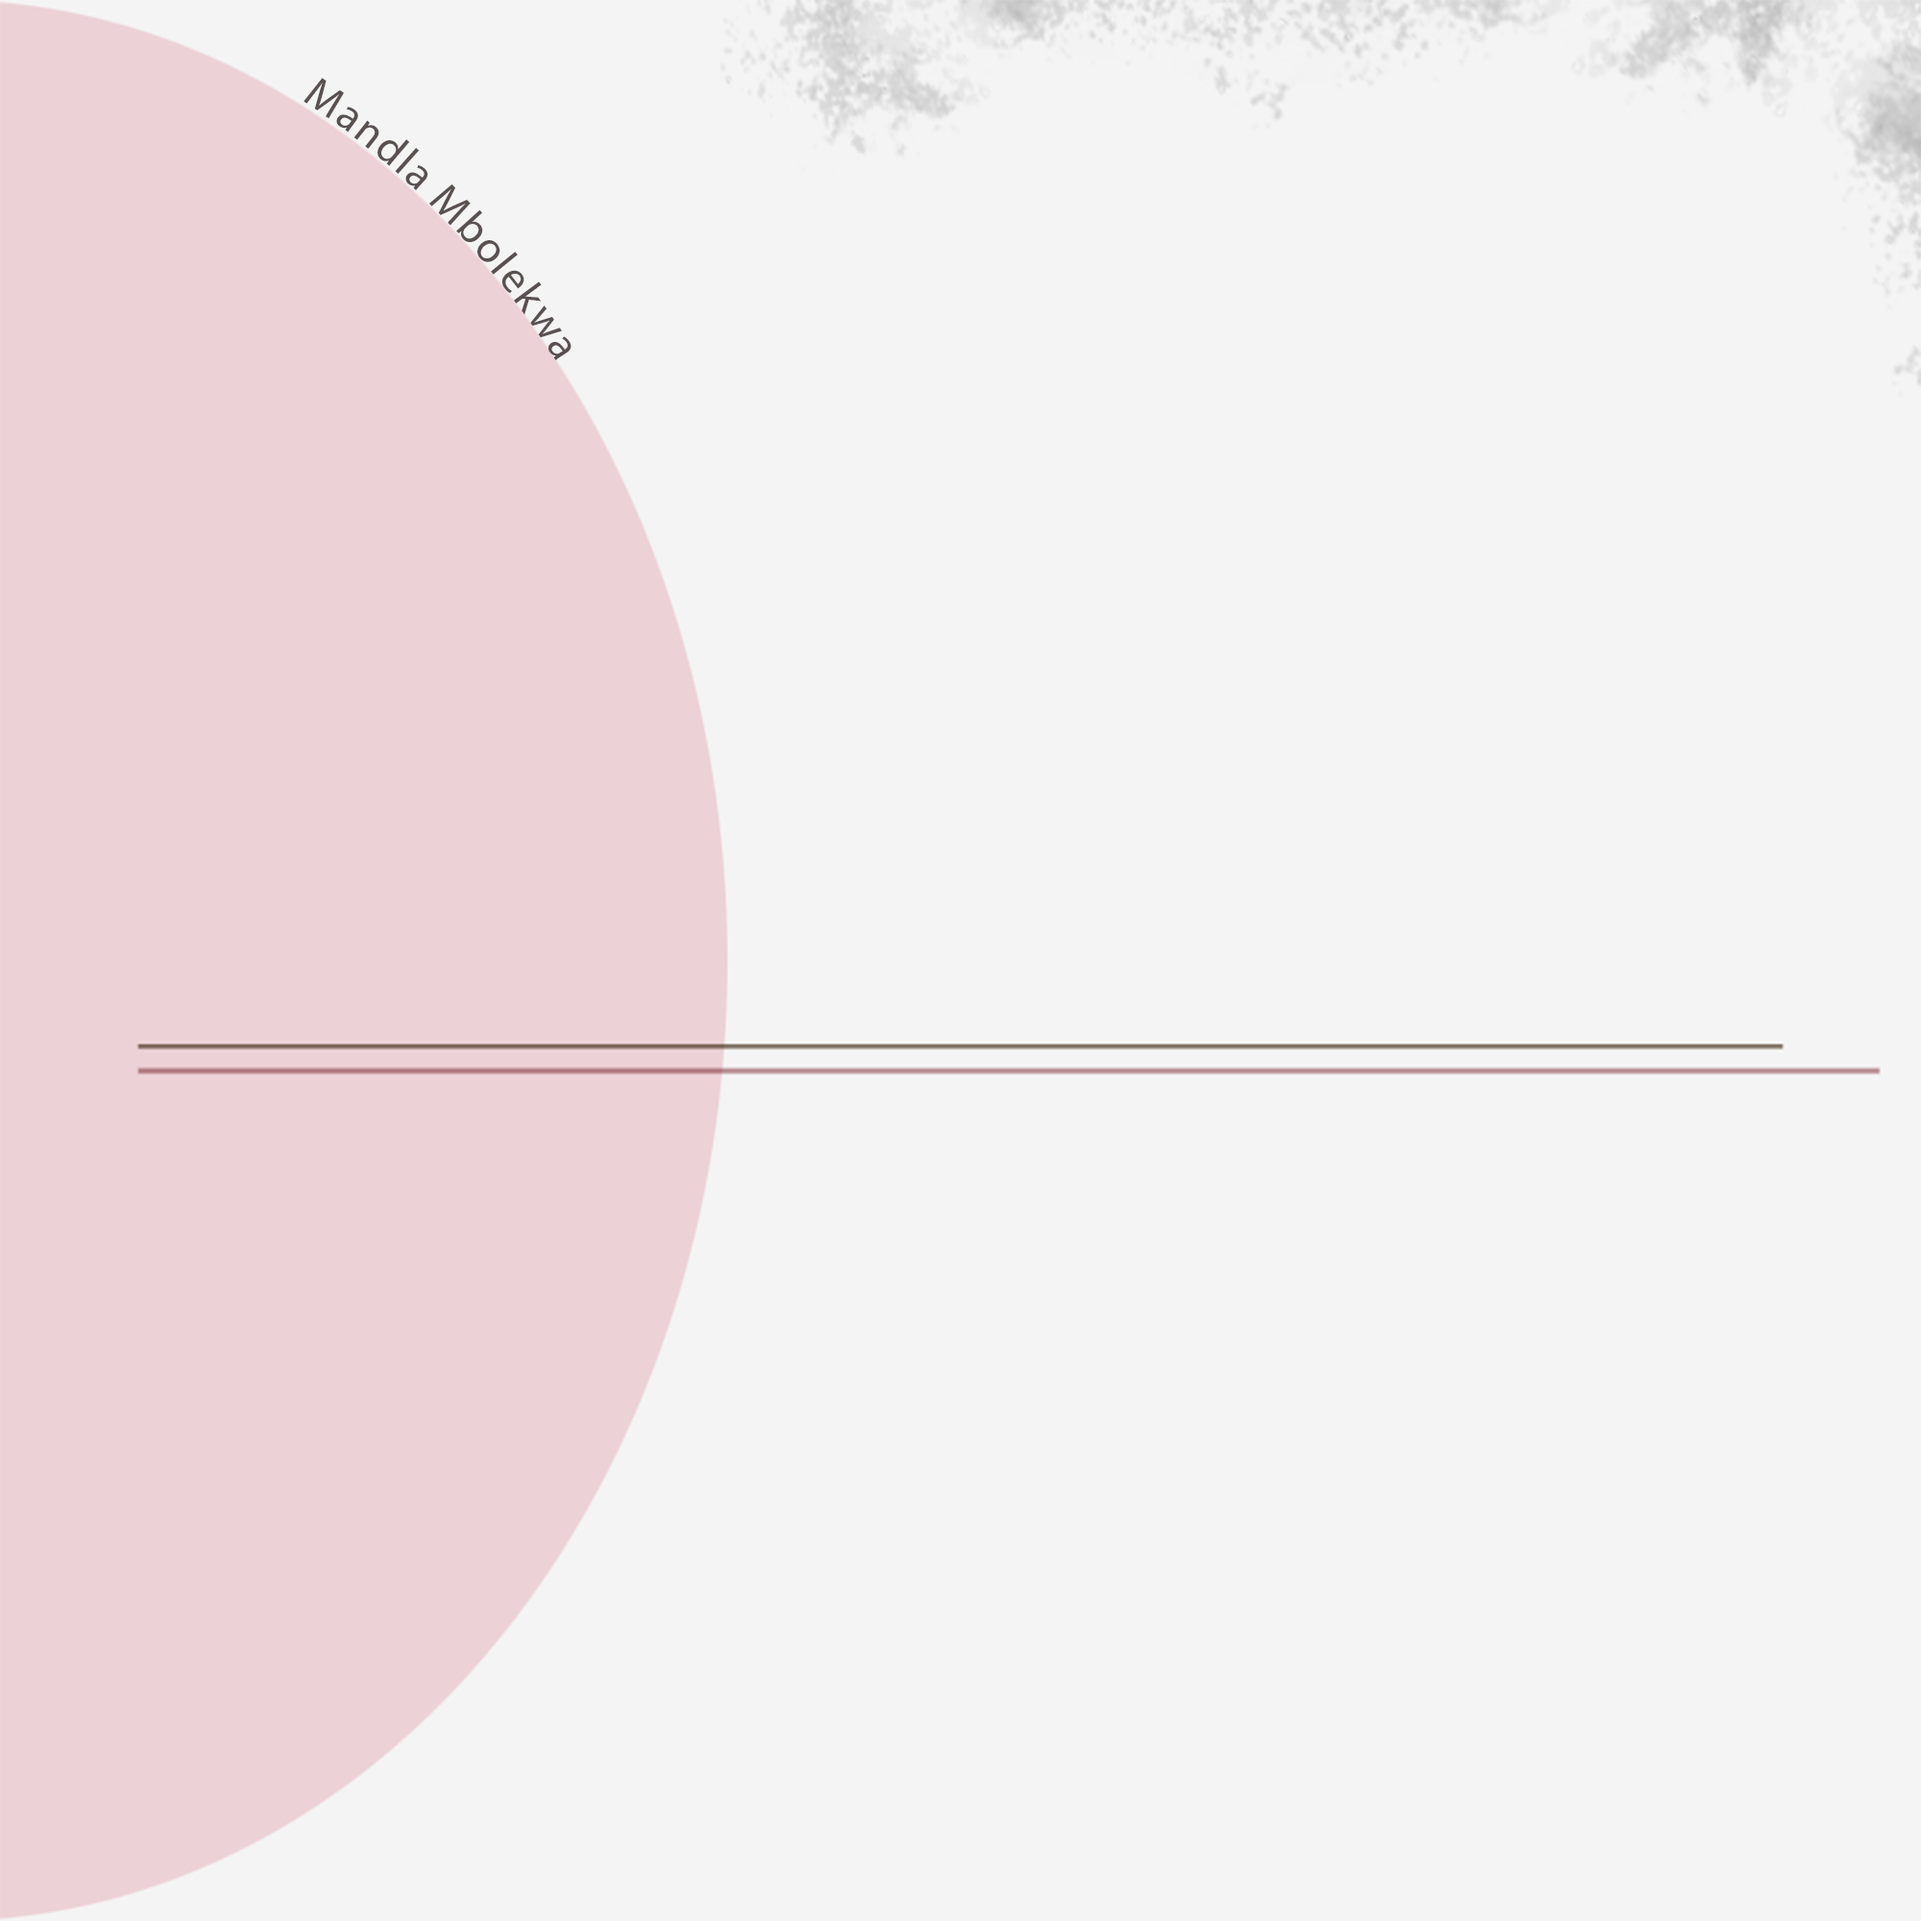
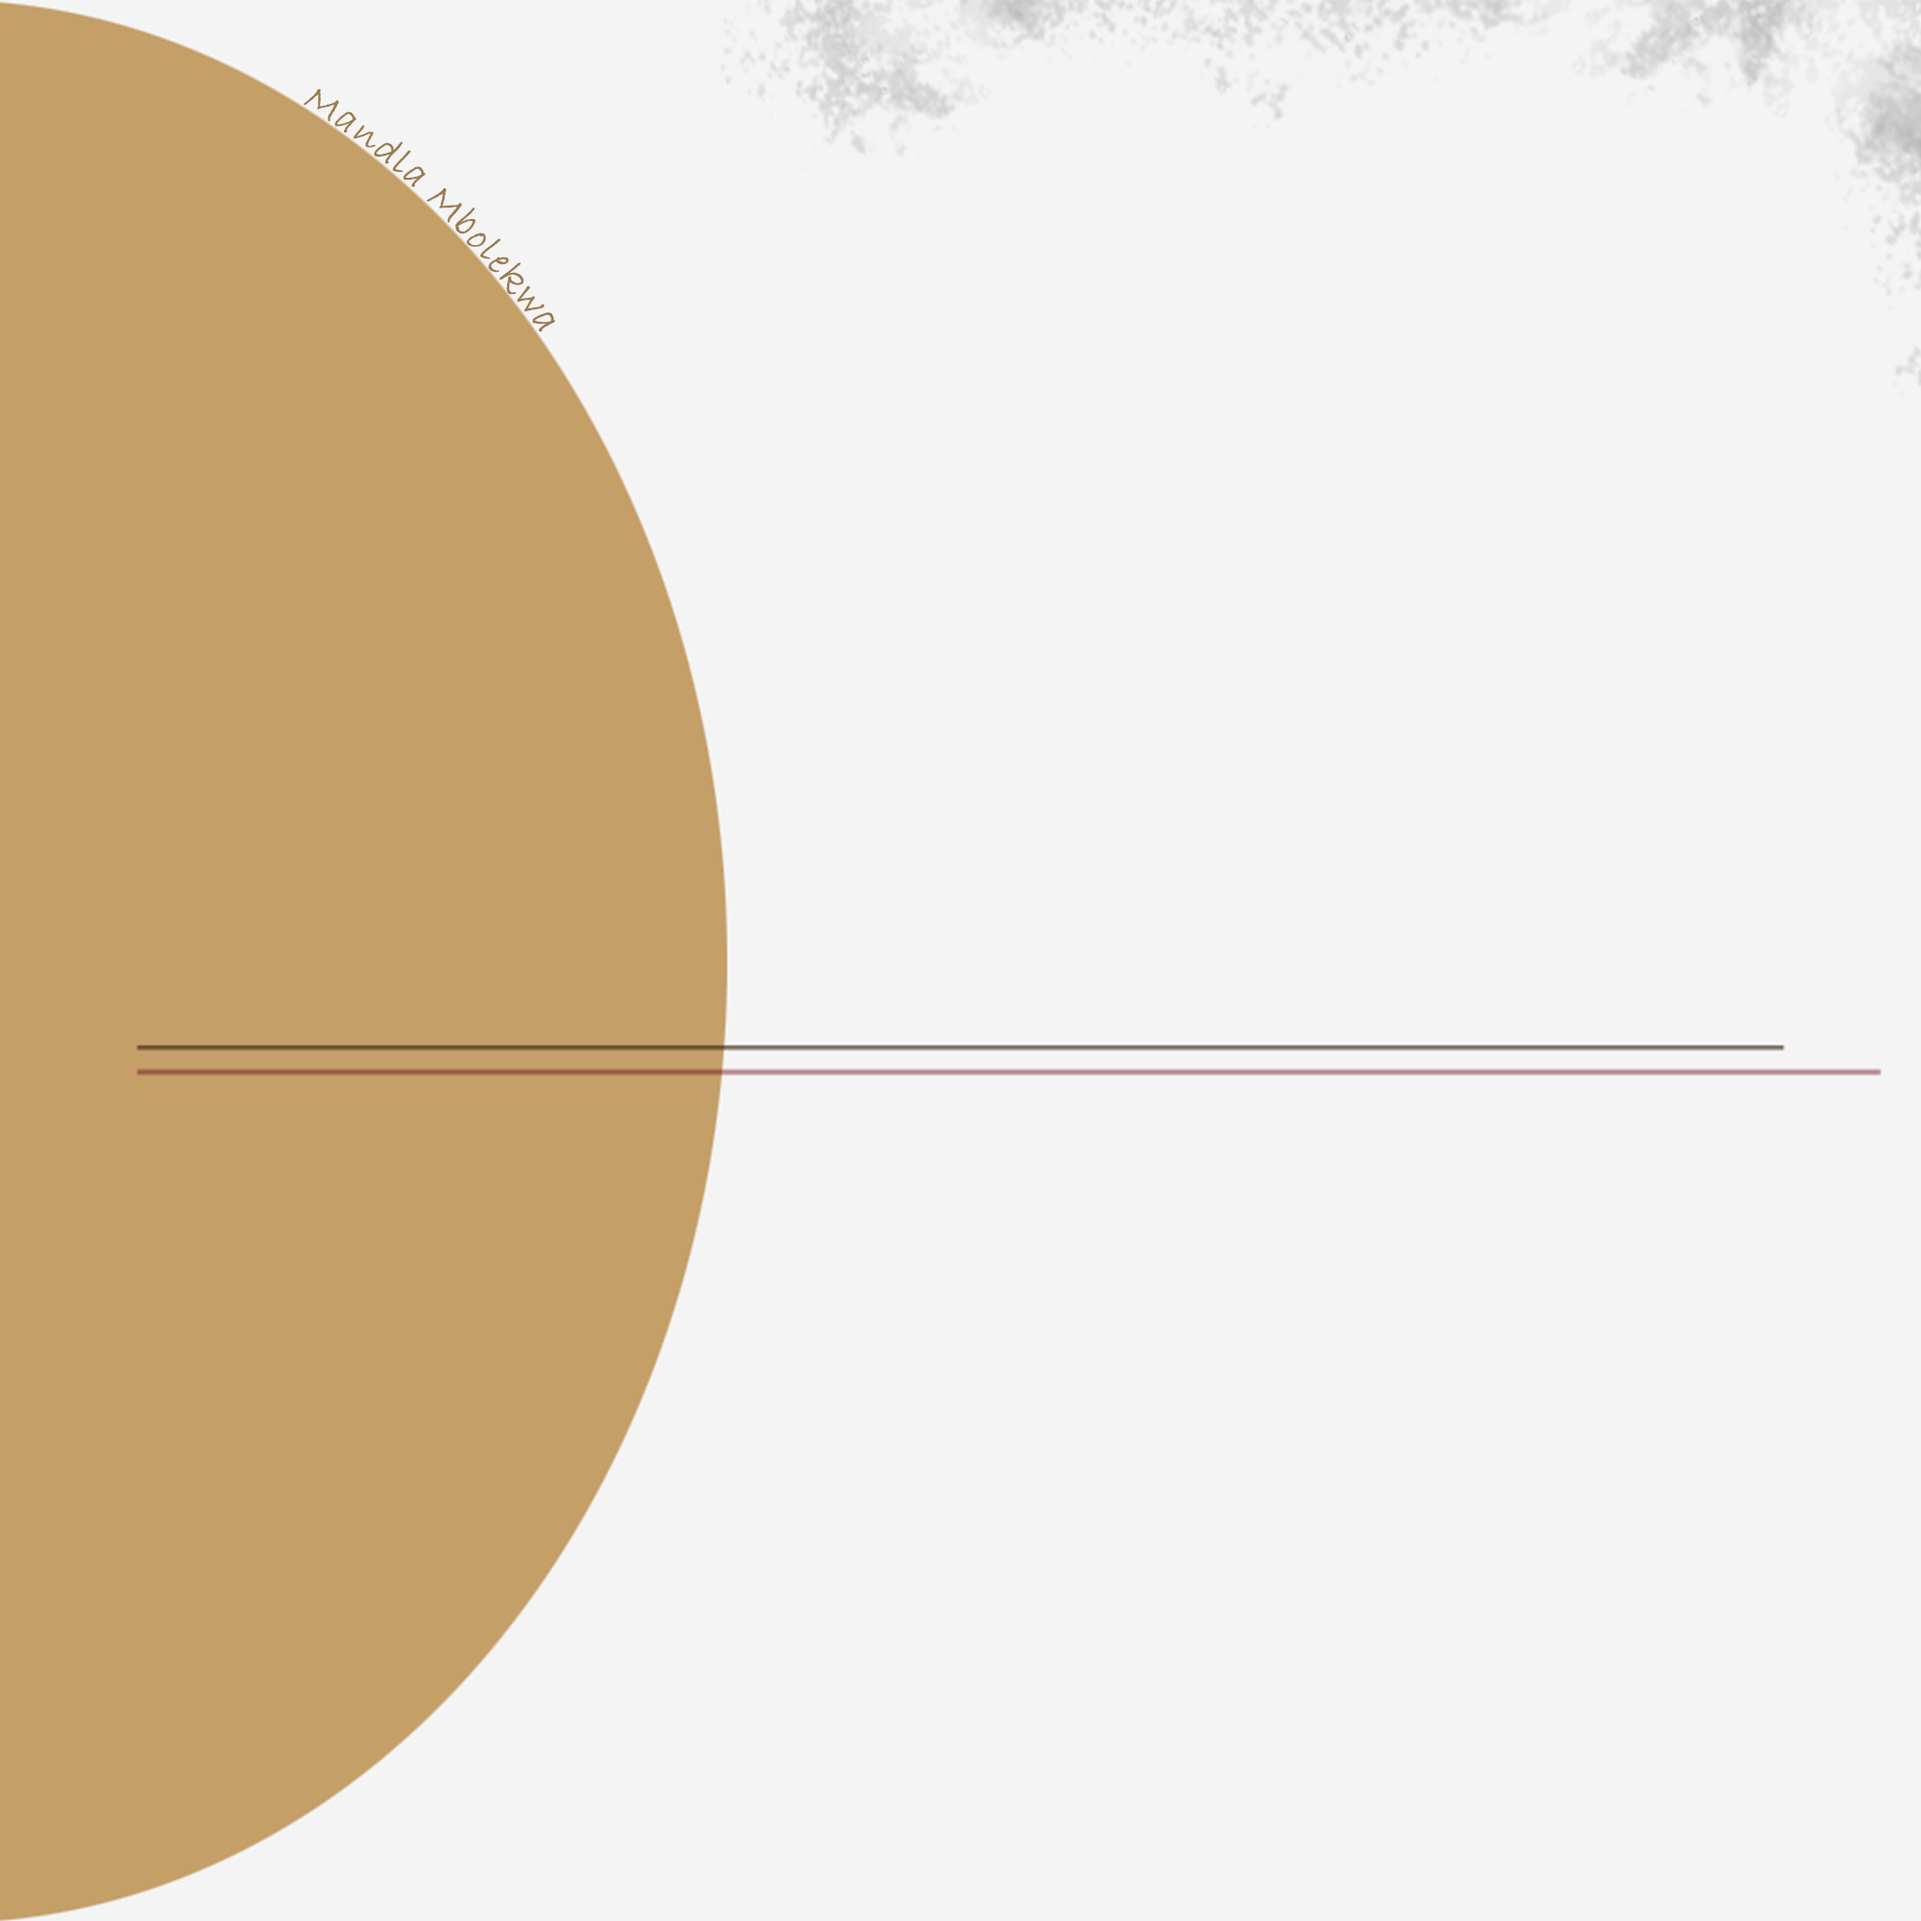
Design

Changed region(s): [[0.0, 0.0, 0.93, 1.0]]

diff --git a/src/componets/Navbar/Navbar.js b/src/componets/Navbar/Navbar.js
@@ -24,53 +24,56 @@ export default function Navbar({ isOpen }) {
 
   return (
     <>
-      <div className="fixed flex-col w-1/5 float-left h-full items-center justify-center hidden md:flex">
+      <div className="fixed -mt-5 flex-col items-center justify-center hidden md:flex">
         <div
-          className={`relative bg-[#4e4c48] w-1/2 h-[12%]  lg:h-1/6 mt-10 rounded-md cursor-pointer shadow-[1px_1px_4px_1px_#101319] text-gray-400 ${
+          className={`flex items-center justify-center bg-[#4e4c48] mt-10 rounded-full cursor-pointer shadow-[1px_1px_4px_1px_#101319] text-gray-400 p-5 ${
             state.home ? "linkHover" : ""
           }`}
           onMouseEnter={() => dispatch({ type: "hover", id: "home" })}
           onMouseLeave={() => dispatch({ type: "unhover", id: "home" })}
         >
-          <Link to="/" className="w-full h-full grid justify-center">
-            <p className="relative top-[15%]">Home</p>
-            <LinkBtn state={state.home}/>
+          <Link
+            to="/"
+            className="relative w-full h-full rounded-full flex flex-col items-center justify-center"
+          >
+            <p className="text-[9px] absolute -top-1 -left-2">Home</p>
+            <LinkBtn state={state.home} />
           </Link>
         </div>
         <div
-          className={`relative bg-[#4e4c48] w-1/2 h-[12%]  lg:h-1/6 mt-10 rounded-md cursor-pointer shadow-[1px_1px_4px_1px_#101319] text-gray-400 ${
+          className={`flex items-center justify-center bg-[#4e4c48] mt-10 rounded-full cursor-pointer shadow-[1px_1px_4px_1px_#101319] text-gray-400 p-5 ${
             state.about ? "linkHover" : ""
           }`}
           onMouseEnter={() => dispatch({ type: "hover", id: "about" })}
           onMouseLeave={() => dispatch({ type: "unhover", id: "about" })}
         >
-          <Link to="/about" className="w-full h-full grid justify-center">
-            <p className="relative top-[15%]">About</p>
-            <LinkBtn state={state.about}/>
+          <Link to="/about" className="relative">
+            <p className="text-[9px] absolute -top-1 -left-2">About</p>
+            <LinkBtn state={state.about} />
           </Link>
         </div>
         <div
-          className={`relative bg-[#4e4c48] w-1/2 h-[12%]  lg:h-1/6 mt-10 rounded-md cursor-pointer shadow-[1px_1px_4px_1px_#101319] text-gray-400 ${
+          className={`flex items-center justify-center bg-[#4e4c48] mt-10 rounded-full cursor-pointer shadow-[1px_1px_4px_1px_#101319] text-gray-400 p-5 ${
             state.work ? "linkHover" : ""
           }`}
           onMouseEnter={() => dispatch({ type: "hover", id: "work" })}
           onMouseLeave={() => dispatch({ type: "unhover", id: "work" })}
         >
-          <Link to="/work" className="w-full h-full grid justify-center">
-            <p className="relative top-[15%]">Work</p>
-            <LinkBtn state={state.work}/>
+          <Link to="/work" className="relative">
+            <p className="text-[9px] absolute -top-1 -left-1">Work</p>
+            <LinkBtn state={state.work} />
           </Link>
         </div>
         <div
-          className={`relative bg-[#4e4c48] w-1/2 h-[12%]  lg:h-1/6 mt-10 rounded-md cursor-pointer shadow-[1px_1px_4px_1px_#101319] text-gray-400 ${
+          className={`flex items-center justify-center bg-[#4e4c48] mt-10 rounded-full cursor-pointer shadow-[1px_1px_4px_1px_#101319] text-gray-400 p-5 ${
             state.contact ? "linkHover" : ""
           }`}
           onMouseEnter={() => dispatch({ type: "hover", id: "contact" })}
           onMouseLeave={() => dispatch({ type: "unhover", id: "contact" })}
         >
-          <Link to="/contact" className="w-full h-full grid justify-center">
-            <p className="relative top-[10%]">Contact</p>
-            <LinkBtn state={state.contact}/>
+          <Link to="/contact" className="relative">
+            <p className="text-[9px] absolute -top-1 -left-4">Contact</p>
+            <LinkBtn state={state.contact} />
           </Link>
         </div>
       </div>

diff --git a/src/componets/Home/Home.js b/src/componets/Home/Home.js
@@ -55,10 +55,10 @@ export default function Home() {
           className="hidden md:grid text-[12px] lg:text-[14px] text-gray-600 order-last md:order-first"
         >
           <div className="relative flex items-end pl-10">
-            <div className="flex border-4 rounded-full border-[#795C34] items-start justify-center">
+            <div className="flex border-4 rounded-full border-[#231709] items-start justify-center">
               <img src={mandla} alt="" className="w-20 h-20 rounded-full"/>
             </div>
-            <div className="absolute bg-[#795C34] h-0.5 w-full bottom-10 left-[9em]">
+            <div className="absolute bg-[#231709] h-0.5 w-full bottom-10 left-[9em]">
     
             </div>
           </div>
@@ -69,7 +69,7 @@ export default function Home() {
                 hovered.link ? "link" : ""
               }`}
             >
-              <p className="absolute -left-16 -top-0.5 w-40 text-[12px]">
+              <p className="absolute -left-16 -top-0.5 w-40 text-[12px] text-[#FFFFFF]">
                 Get in touch
               </p>
               <img
@@ -90,7 +90,7 @@ export default function Home() {
           </div>
         </div>
         <div className="flex flex-col gap-5">
-          <div className="rounded-full px-8 bg-[#7c7b7b] flex items-center justify-center overflow-hidden whitespace-nowrap">
+          <div className="rounded-md px-8 bg-[#7c7b7b] flex items-center justify-center overflow-hidden whitespace-nowrap">
             <div className="inline-block w-full overflow-hidden ">
               <span className="inline-block animate-slide space-x-14 py-0 lg:py-2">
                 <p className="text-lg mb:text-xl inline-block text-[#42d2df]">

diff --git a/src/componets/LinkBtn/LinkBtn.js b/src/componets/LinkBtn/LinkBtn.js
@@ -3,8 +3,17 @@ import React from "react";
 import linkBtn from "../assets/images/link_0.png";
 export default function LinkBtn({ state }) {
   return (
-    <div className={`absolute flex items-center bottom-4 right-4 border border-gray-500 w-8 h-8 rounded-full ${state ? 'link' : ''}`}>
-      <img src={linkBtn} alt="" className="relative -left-2.5  w-6" style={{ transform: "rotate(270deg)" }} />
+    <div
+      className={`relative left-3 flex items-center w-5 h-5 rounded-full ${
+        state ? "link" : ""
+      }`}
+    >
+      <img
+        src={linkBtn}
+        alt=""
+        className="relative -left-2.5  w-5"
+        style={{ transform: "rotate(270deg)" }}
+      />
     </div>
   );
 }

diff --git a/src/pages/Layout.js b/src/pages/Layout.js
@@ -12,13 +12,13 @@ export default function Layout() {
   }
 
   return (
-    <div className="relative h-screen ">
-      <div>
+    <div className="relative grid grid-cols-7 w-full">
+      <div className="bg-[#ccb28c] flex items-center justify-center">
         <Navbar isOpen={isOpen}/>
         <ToggleNav toggle={handleToggle} />
       </div>
 
-      <div className="col-span-4 md:w-4/5 float-right w-full">
+      <div className="col-span-6">
         <Outlet />
       </div>
     </div>
